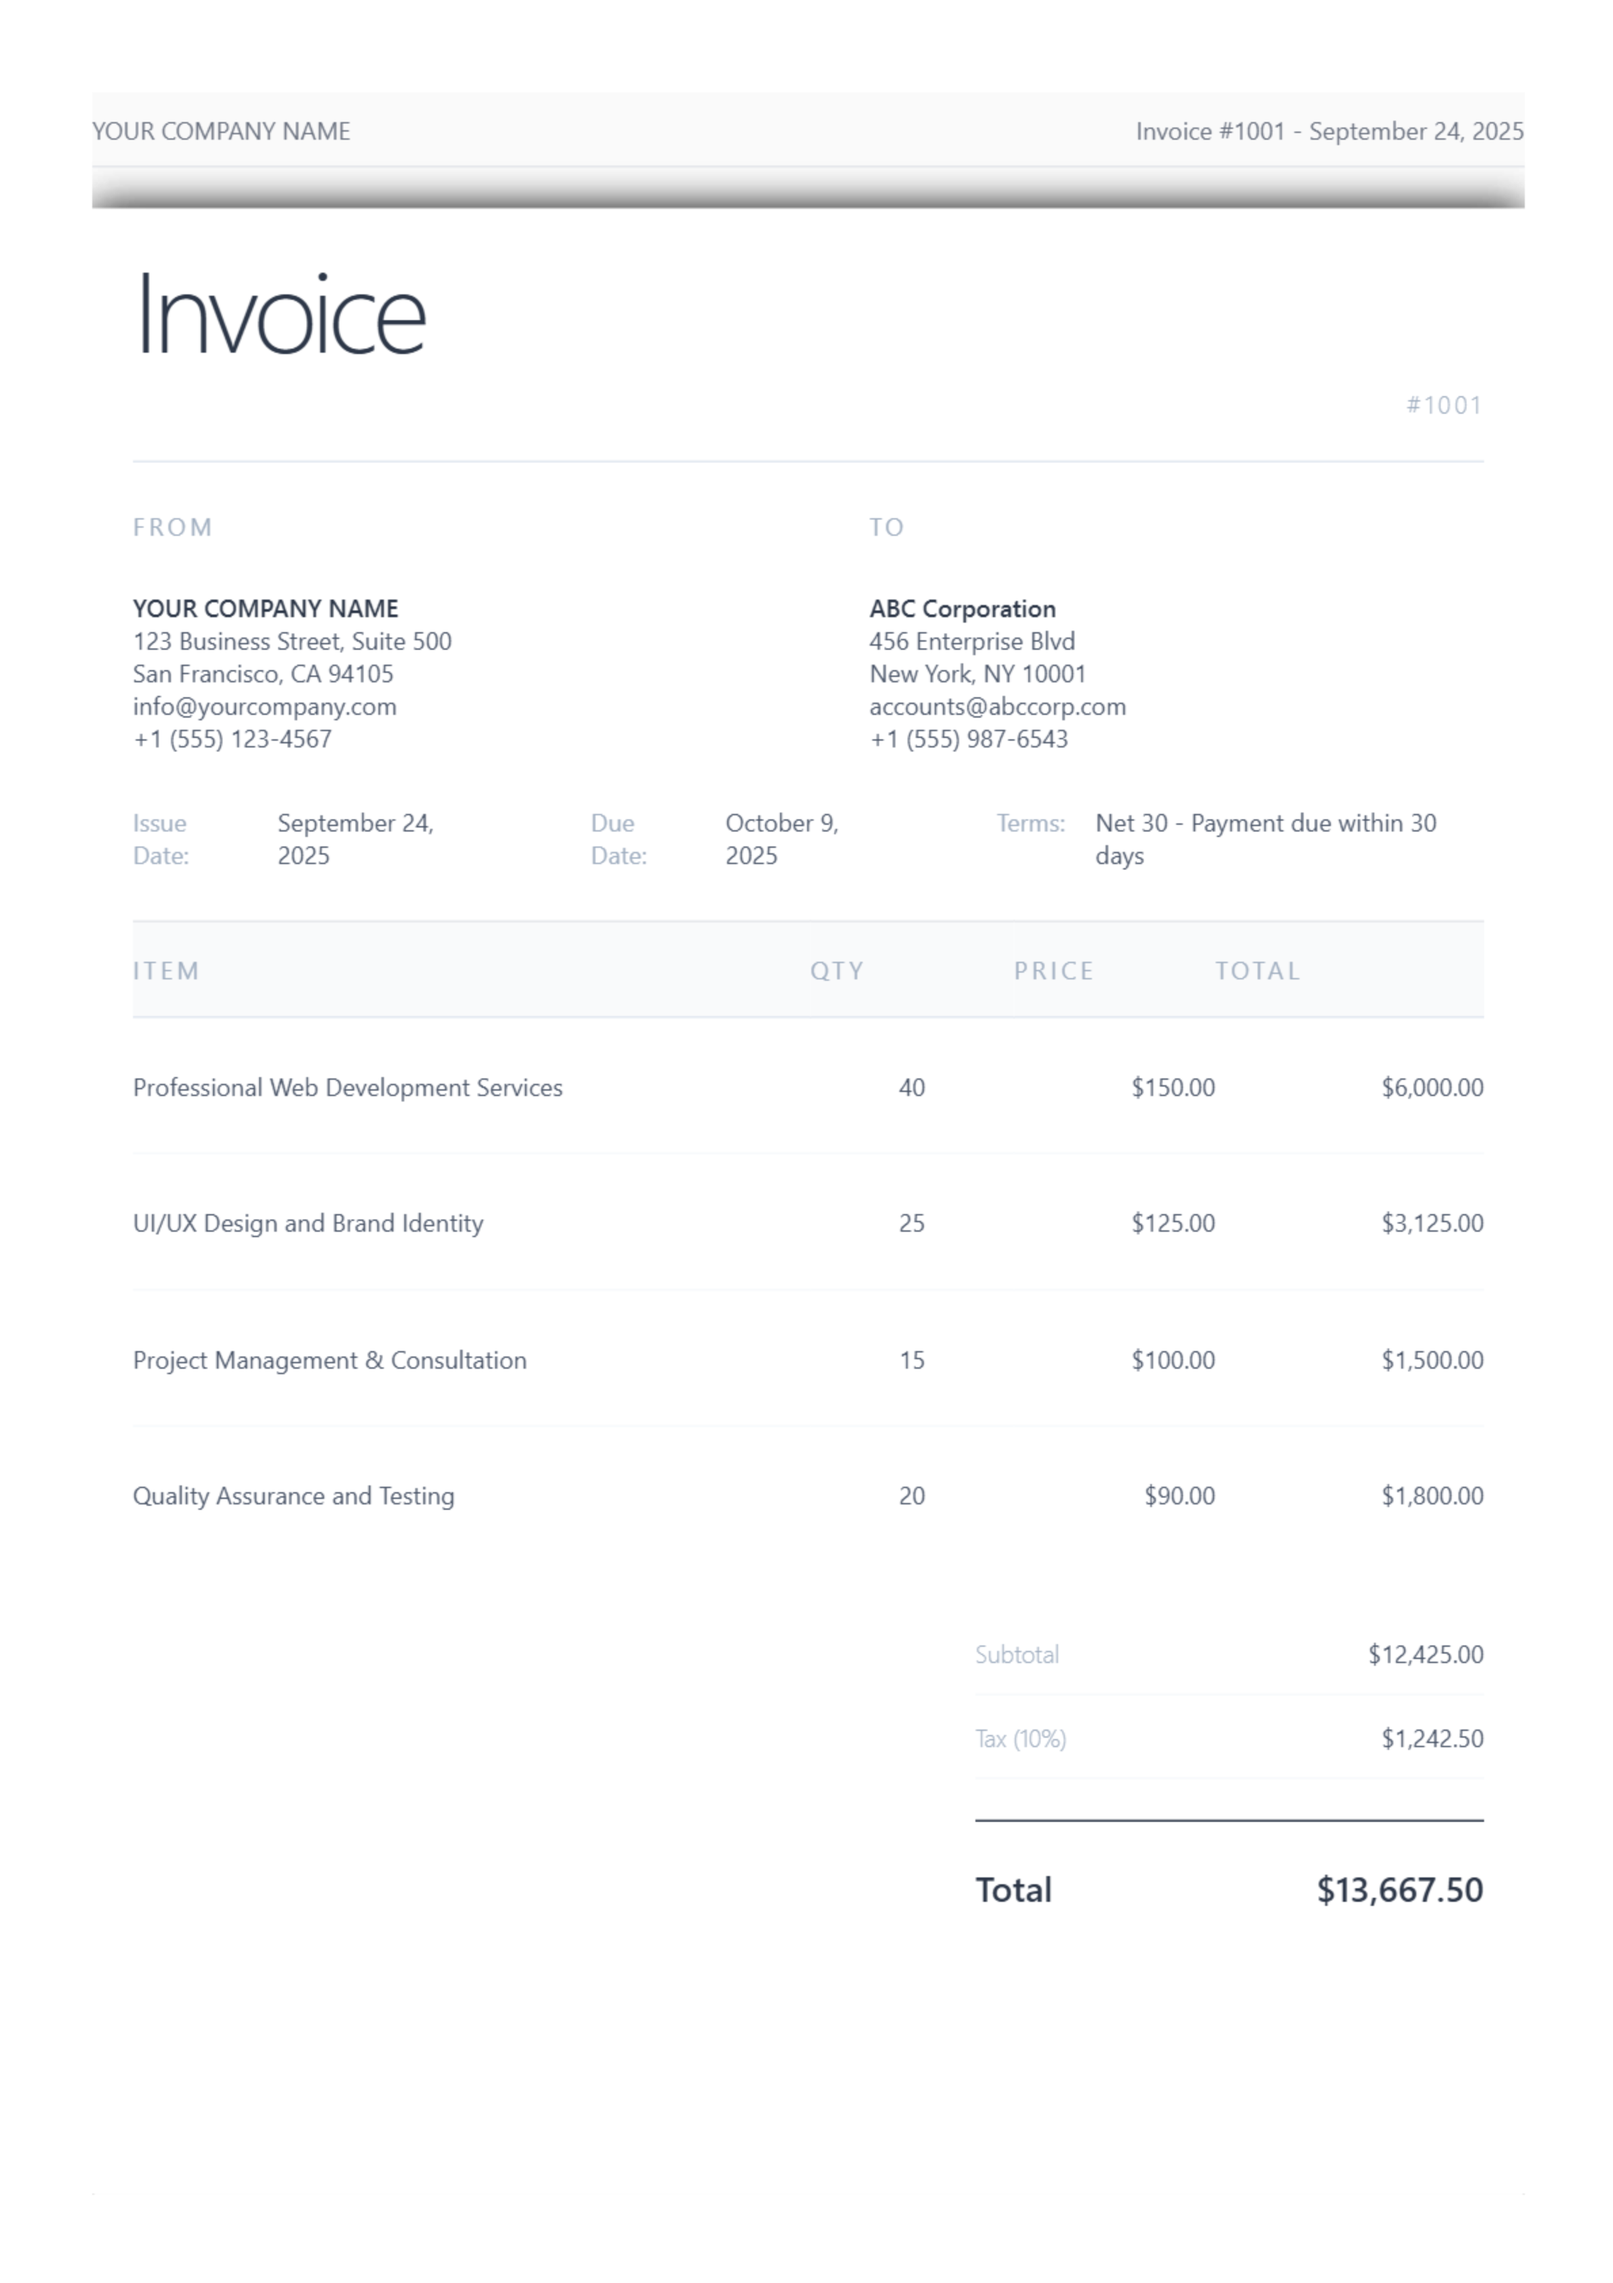
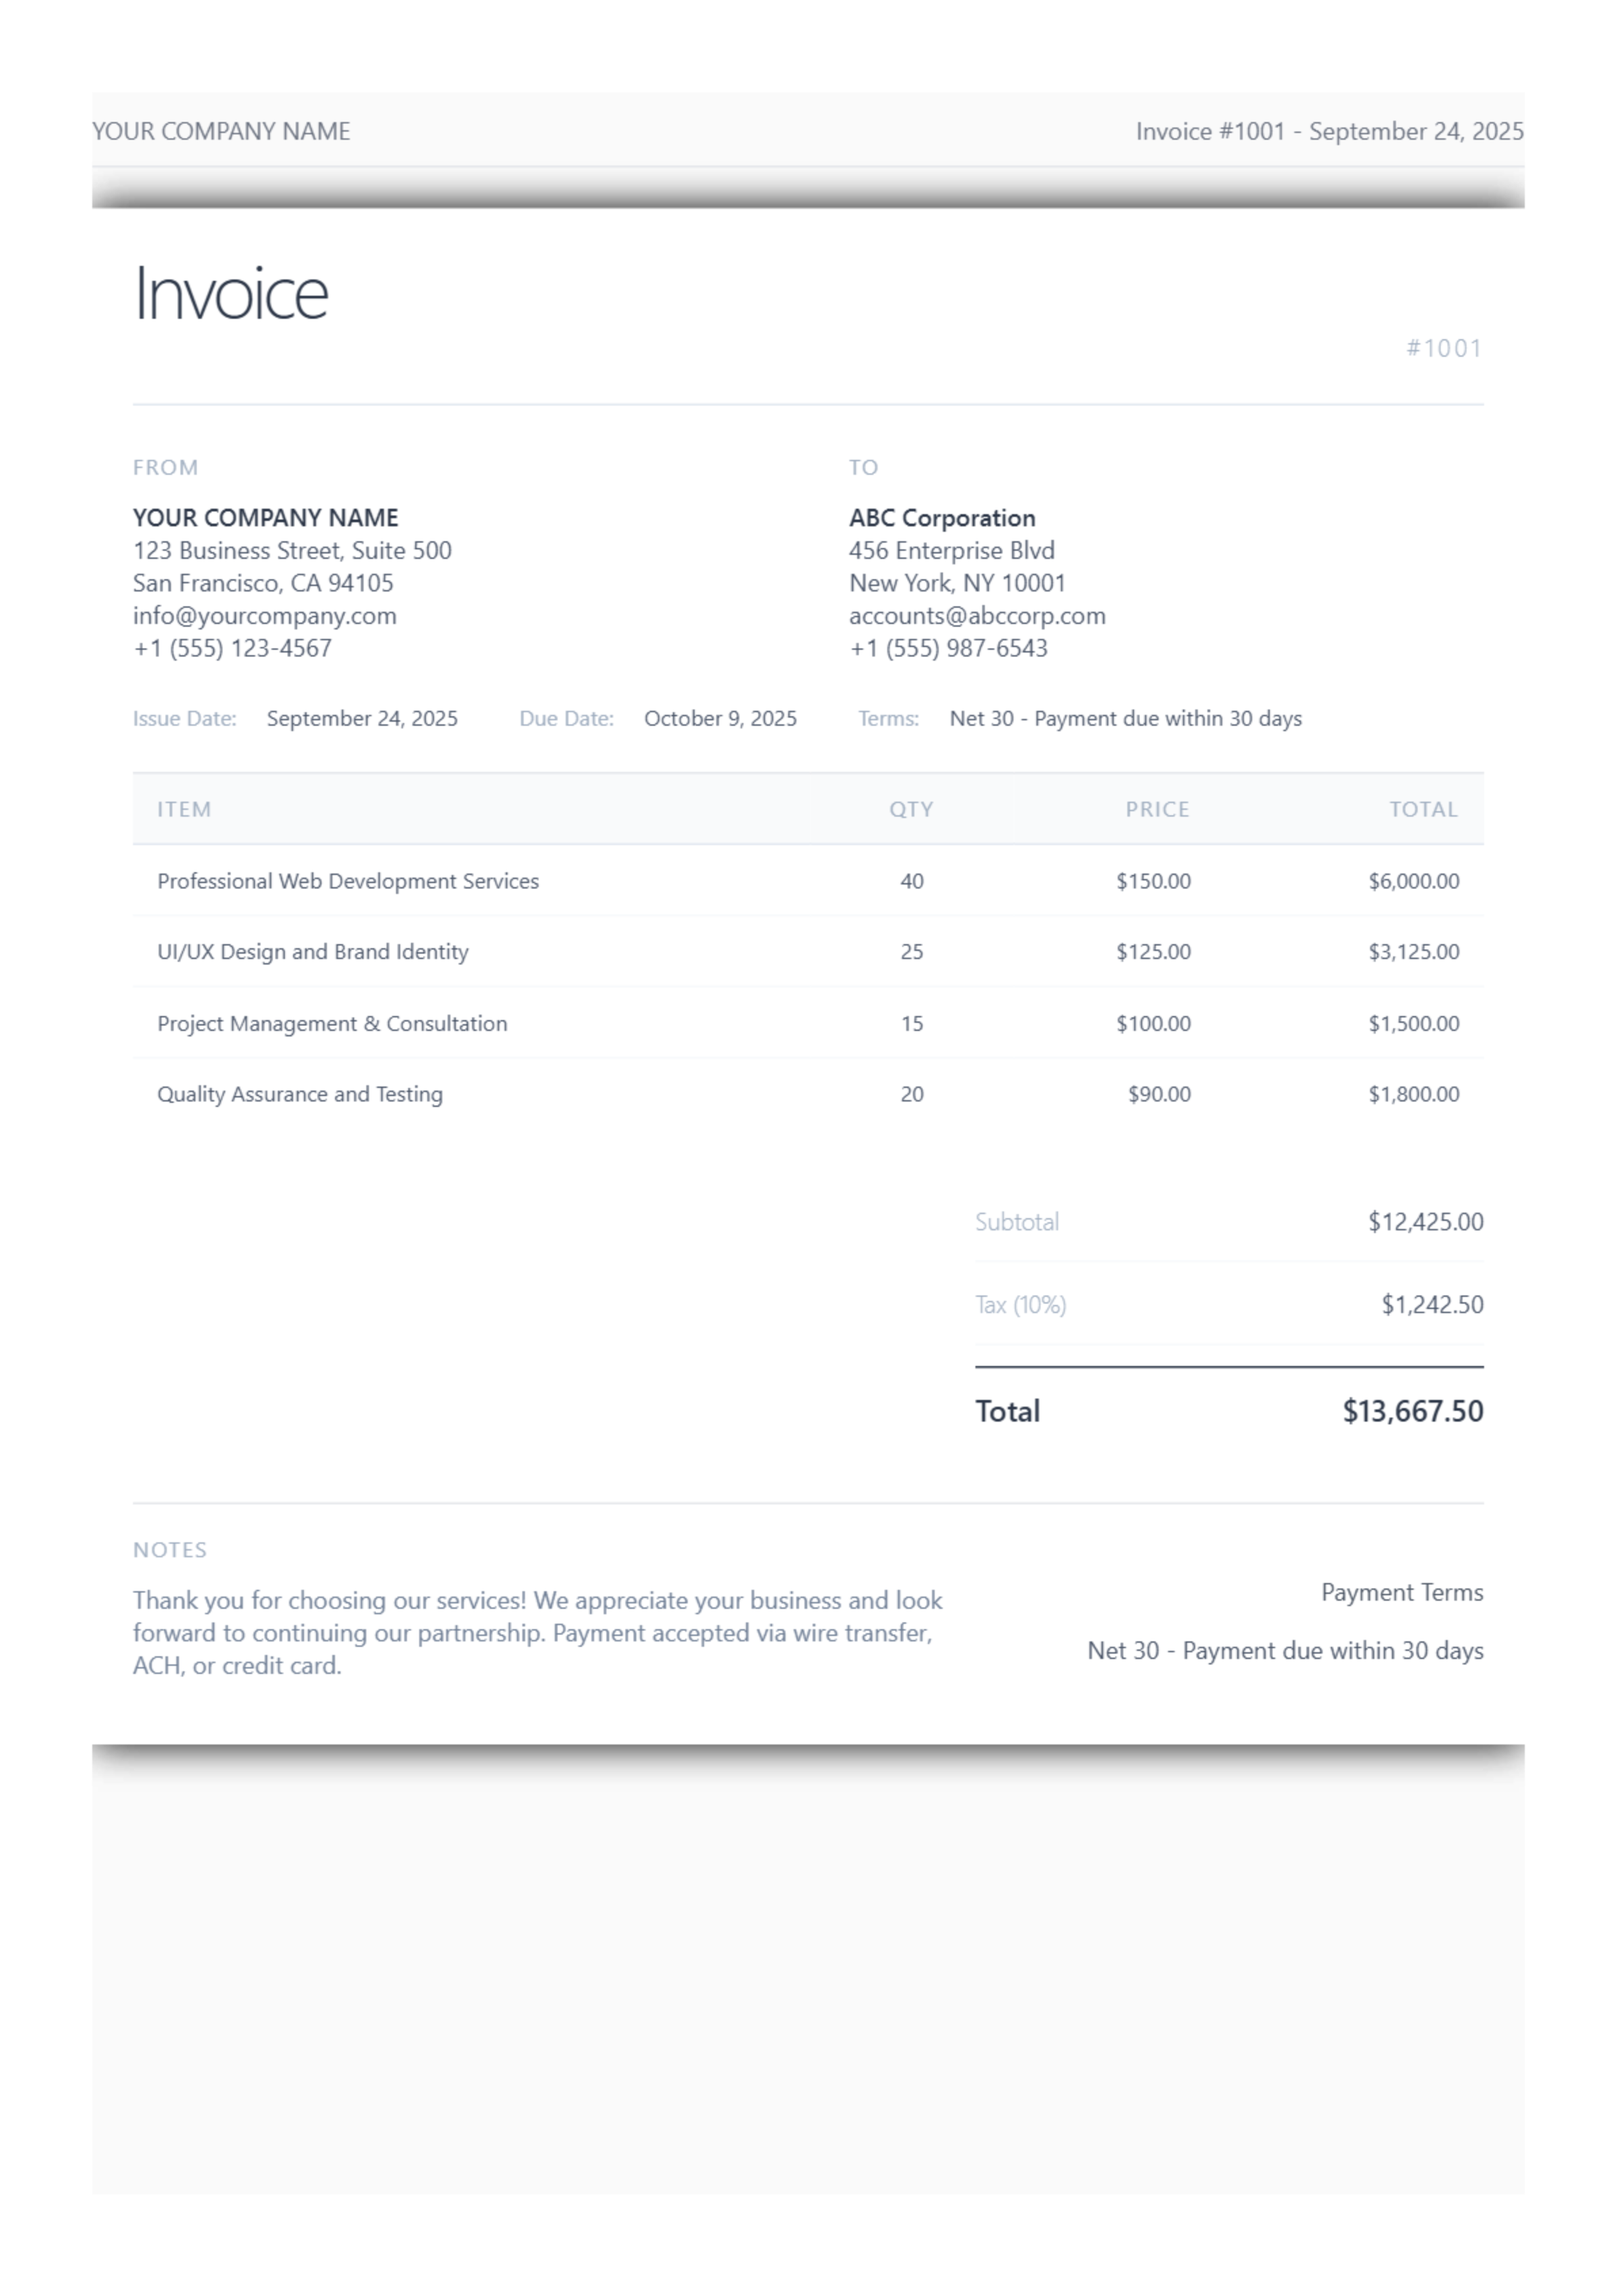
fix: optimize Consulting Gray template for cleaner layout
- Removed unnecessary footer sections:
  - Payment Methods section
  - Banking Information section
  - Contact Information section
- Reduced excessive spacing throughout:
  - All padding reduced from 50px to 25px (header, content, footer)
  - Executive bar padding: 20px 50px → 10px 25px
  - Header content gap: 60px → 30px
  - Client container gap: 50px → 30px
  - Professional closing margins reduced
- Removed unused CSS for deleted footer sections
- Template now has a cleaner, more compact professional layout

The invoice now fits better on a single page with improved readability.

diff --git a/functions/templates/consulting-gray.html b/functions/templates/consulting-gray.html
@@ -31,7 +31,7 @@
     /* Executive header */
     .executive-header {
       background: #f9fafb;
-      padding: 50px;
+      padding: 25px;
       border-bottom: 1px solid #e5e7eb;
       position: relative;
     }
@@ -39,7 +39,7 @@
     .header-content {
       display: grid;
       grid-template-columns: 1fr auto;
-      gap: 60px;
+      gap: 30px;
       align-items: flex-start;
     }
     
@@ -89,7 +89,7 @@
     .executive-bar {
       background: #374151;
       color: white;
-      padding: 20px 50px;
+      padding: 10px 25px;
       display: grid;
       grid-template-columns: repeat(4, 1fr);
       gap: 15px;
@@ -114,14 +114,14 @@
     
     /* Main content */
     .executive-content {
-      padding: 50px;
+      padding: 25px;
     }
     
     /* Client information */
     .client-container {
       display: grid;
       grid-template-columns: 1fr 1fr;
-      gap: 50px;
+      gap: 30px;
       margin-bottom: 20px;
     }
     
@@ -284,47 +284,16 @@
     /* Executive footer */
     .executive-footer {
       background: #f9fafb;
-      padding: 50px;
+      padding: 25px;
       border-top: 1px solid #e5e7eb;
     }
     
-    .footer-grid {
-      display: grid;
-      grid-template-columns: repeat(3, 1fr);
-      gap: 50px;
-      margin-bottom: 20px;
-    }
-    
-    .footer-section h4 {
-      font-size: 9pt;
-      color: #1f2937;
-      margin-bottom: 20px;
-      font-weight: 600;
-      text-transform: uppercase;
-      letter-spacing: 0.5px;
-    }
-    
-    .footer-section p,
-    .footer-section ul {
-      font-size: 9pt;
-      color: #4b5563;
-      line-height: 1.4;
-    }
-    
-    .footer-section ul {
-      list-style: none;
-      padding: 0;
-    }
-    
-    .footer-section li {
-      padding: 3px 0;
-    }
     
     /* Professional closing */
     .professional-closing {
       text-align: center;
-      margin-top: 20px;
-      padding-top: 20px;
+      margin-top: 15px;
+      padding-top: 15px;
       border-top: 1px solid #e5e7eb;
     }
     
@@ -483,38 +452,6 @@
     
     <!-- Executive Footer -->
     <div class="executive-footer">
-      <div class="footer-grid">
-        <div class="footer-section">
-          <h4>Payment Methods</h4>
-          <ul>
-            <li>• Wire Transfer</li>
-            <li>• ACH Transfer</li>
-            <li>• Company Check</li>
-            <li>• Credit Card (3% fee applies)</li>
-          </ul>
-        </div>
-        
-        <div class="footer-section">
-          <h4>Banking Information</h4>
-          <p>
-            Bank Name: First National Bank<br>
-            Account Type: Business Checking<br>
-            Routing: XXX-XXX-XXX<br>
-            Account: XXXX-XXXX
-          </p>
-        </div>
-        
-        <div class="footer-section">
-          <h4>Contact Information</h4>
-          <p>
-            Accounts Receivable<br>
-            {{#if userData.email}}{{userData.email}}<br>{{/if}}
-            {{#if userData.phone}}{{userData.phone}}<br>{{/if}}
-            Monday - Friday, 9AM - 5PM EST
-          </p>
-        </div>
-      </div>
-      
       <div class="professional-closing">
         <p class="closing-message">
           We appreciate the opportunity to serve your organization and look forward to our continued partnership.
